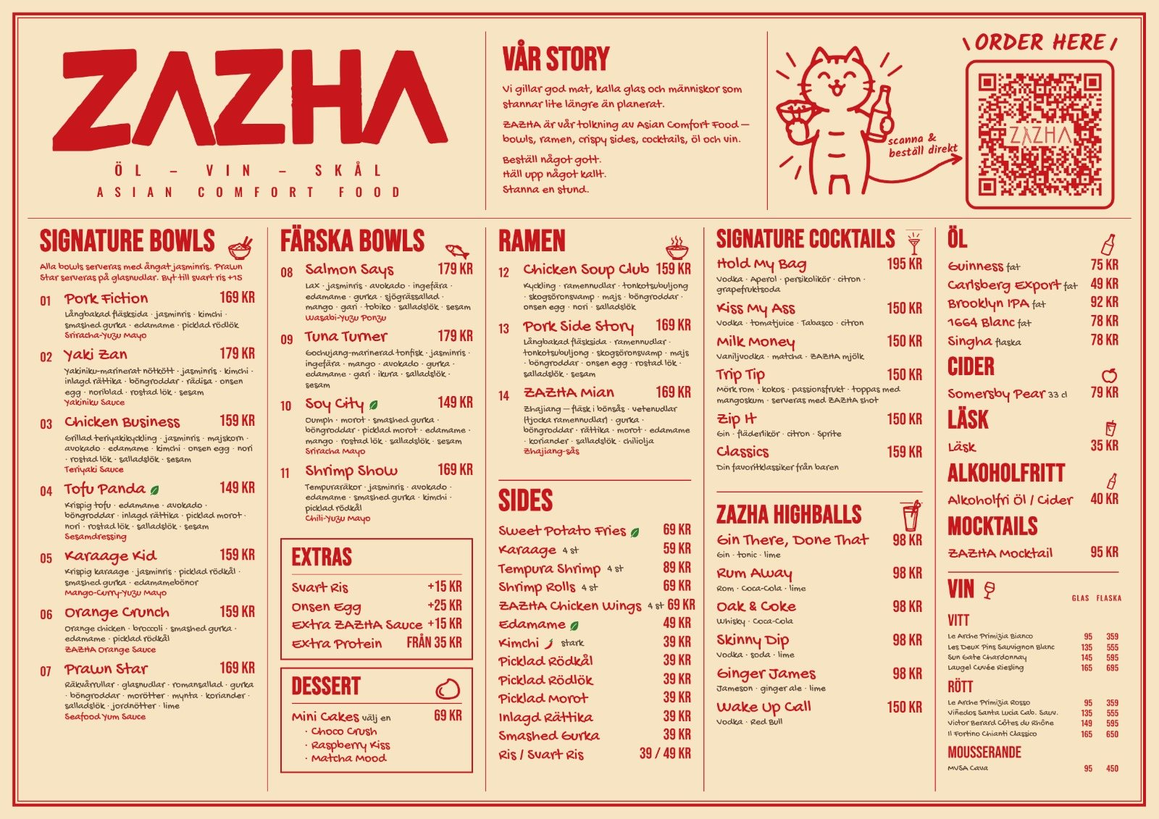
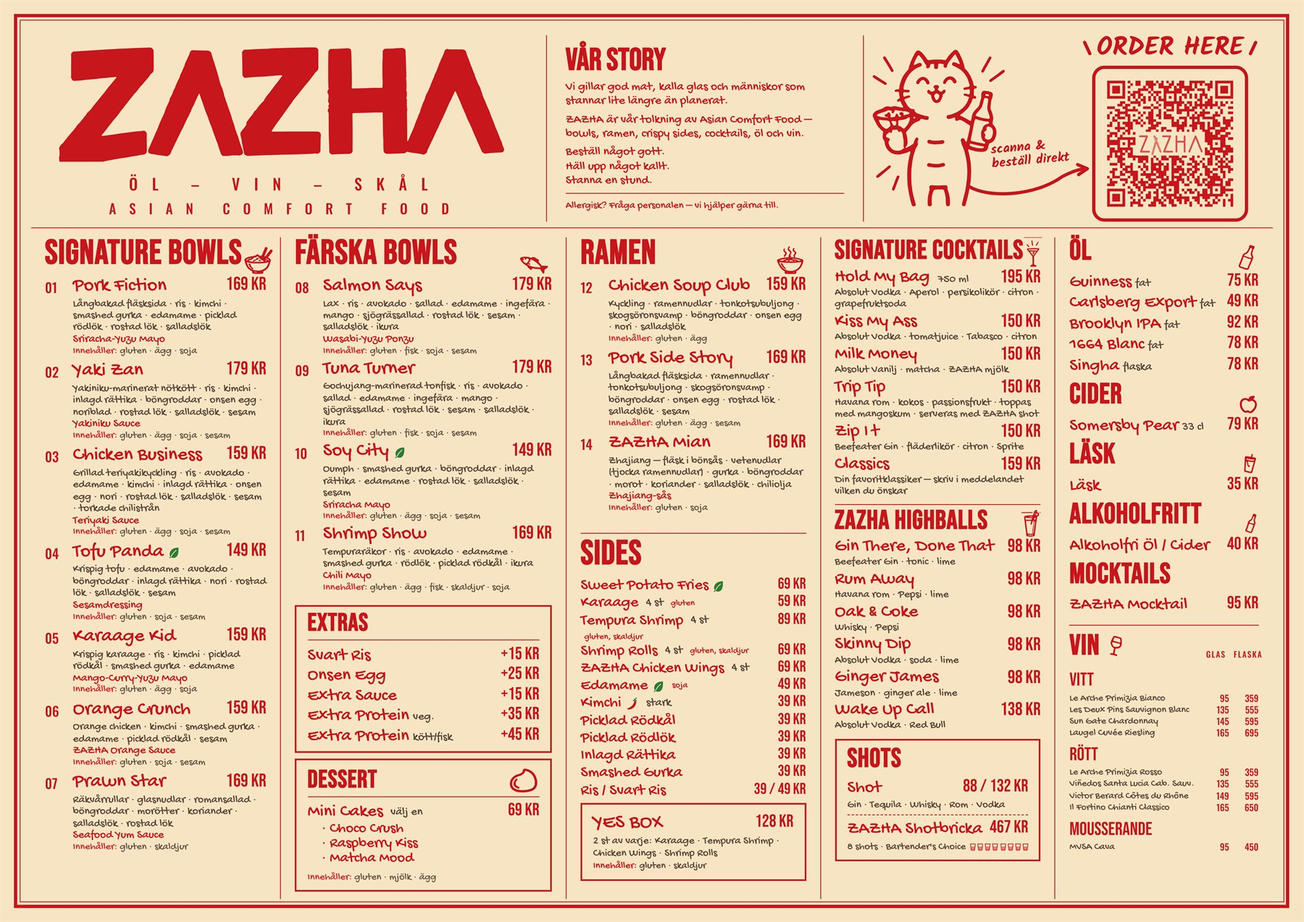
Uppdatera menyn med ny menybild och synka hela meny-sidan mot den
Byter ut menybilden på startsidan och meny-sidan mot det nya
tryckta menykortet, och uppdaterar hela den utskrivna HTML-menyn
(bowls, ramen, sides, dessert, cocktails, highballs, shots, vin)
med rätt ingredienser, allergener och priser så den matchar
menykortet exakt. Lägger till Yes Box och Shots som nya poster.

Changed region(s): [[0.0312, 0.0309, 0.9688, 0.9903]]

diff --git a/meny.html b/meny.html
@@ -31,26 +31,26 @@
         "@type": "MenuSection",
         "name": "Bowls",
         "hasMenuItem": [
-          {"@type":"MenuItem","name":"Pork Fiction","description":"Långbakad fläsksida, jasminris, kimchi, smashed gurka, edamame, picklad rödlök, Sriracha-Yuzu Mayo","offers":{"@type":"Offer","price":"169","priceCurrency":"SEK"}},
-          {"@type":"MenuItem","name":"Yaki Zan","description":"Yakiniku-marinerat nötkött, jasminris, kimchi, inlagd rättika, böngroddar, rädisa, onsenägg, noriblad, rostad lök, sesam","offers":{"@type":"Offer","price":"179","priceCurrency":"SEK"}},
-          {"@type":"MenuItem","name":"Chicken Business","description":"Grillad teriyakikyckling, jasminris, majskorn, avokado, edamame, kimchi, onsenägg, nori, rostad lök, salladslök, sesam","offers":{"@type":"Offer","price":"159","priceCurrency":"SEK"}},
-          {"@type":"MenuItem","name":"Tofu Panda","description":"Krispig tofu, edamame, avokado, böngroddar, inlagd rättika, picklad morot, nori, rostad lök, salladslök, sesam, Sesamdressing","suitableForDiet":"https://schema.org/VegetarianDiet","offers":{"@type":"Offer","price":"149","priceCurrency":"SEK"}},
-          {"@type":"MenuItem","name":"Karaage Kid","description":"Krispig karaage, jasminris, picklad rödkål, smashed gurka, edamamebönor, Mango-Curry-Yuzu Mayo","offers":{"@type":"Offer","price":"159","priceCurrency":"SEK"}},
-          {"@type":"MenuItem","name":"Orange Crunch","description":"Orange chicken, broccoli, smashed gurka, edamame, picklad rödkål, ZAZHA Orange Sauce","offers":{"@type":"Offer","price":"159","priceCurrency":"SEK"}},
-          {"@type":"MenuItem","name":"Prawn Star","description":"Räkvårrullar, glasnudlar, romansallad, gurka, böngroddar, morötter, mynta, koriander, salladslök, jordnötter, lime, Seafood Yum Sauce","offers":{"@type":"Offer","price":"169","priceCurrency":"SEK"}},
-          {"@type":"MenuItem","name":"Salmon Says","description":"Lax, jasminris, avokado, ingefära, edamame, gurka, sjögrässallad, mango, gari, tobiko, salladslök, sesam, Wasabi-Yuzu Ponzu","offers":{"@type":"Offer","price":"179","priceCurrency":"SEK"}},
-          {"@type":"MenuItem","name":"Tuna Turner","description":"Gochujang-marinerad tonfisk, jasminris, ingefära, mango, avokado, gurka, edamame, gari, ikura, salladslök, sesam","offers":{"@type":"Offer","price":"179","priceCurrency":"SEK"}},
-          {"@type":"MenuItem","name":"Soy City","description":"Oumph, morot, smashed gurka, böngroddar, picklad morot, edamame, mango, rostad lök, salladslök, sesam, Sriracha Mayo","suitableForDiet":"https://schema.org/VegetarianDiet","offers":{"@type":"Offer","price":"149","priceCurrency":"SEK"}},
-          {"@type":"MenuItem","name":"Shrimp Show","description":"Tempuraräkor, jasminris, avokado, edamame, smashed gurka, kimchi, picklad rödkål, Chili-Yuzu Mayo","offers":{"@type":"Offer","price":"169","priceCurrency":"SEK"}}
+          {"@type":"MenuItem","name":"Pork Fiction","description":"Långbakad fläsksida, ris, kimchi, smashed gurka, edamame, picklad rödlök, rostad lök, salladslök, Sriracha-Yuzu Mayo","offers":{"@type":"Offer","price":"169","priceCurrency":"SEK"}},
+          {"@type":"MenuItem","name":"Yaki Zan","description":"Yakiniku-marinerat nötkött, ris, kimchi, inlagd rättika, böngroddar, onsen egg, noriblad, rostad lök, salladslök, sesam","offers":{"@type":"Offer","price":"179","priceCurrency":"SEK"}},
+          {"@type":"MenuItem","name":"Chicken Business","description":"Grillad teriyakikyckling, ris, avokado, edamame, kimchi, inlagd rättika, onsen egg, nori, rostad lök, salladslök, sesam, torkade chiliflingor","offers":{"@type":"Offer","price":"159","priceCurrency":"SEK"}},
+          {"@type":"MenuItem","name":"Tofu Panda","description":"Krispig tofu, edamame, avokado, böngroddar, inlagd rättika, nori, rostad lök, salladslök, sesam, Sesamdressing","suitableForDiet":"https://schema.org/VegetarianDiet","offers":{"@type":"Offer","price":"149","priceCurrency":"SEK"}},
+          {"@type":"MenuItem","name":"Karaage Kid","description":"Krispig karaage, ris, kimchi, picklad rödkål, smashed gurka, edamame, Mango-Curry-Yuzu Mayo","offers":{"@type":"Offer","price":"159","priceCurrency":"SEK"}},
+          {"@type":"MenuItem","name":"Orange Crunch","description":"Orange chicken, kimchi, smashed gurka, edamame, picklad rödkål, sesam, ZAZHA Orange Sauce","offers":{"@type":"Offer","price":"159","priceCurrency":"SEK"}},
+          {"@type":"MenuItem","name":"Prawn Star","description":"Räkvårrullar, glasnudlar, romansallad, böngroddar, morötter, koriander, salladslök, rostad lök, Seafood Yum Sauce","offers":{"@type":"Offer","price":"169","priceCurrency":"SEK"}},
+          {"@type":"MenuItem","name":"Salmon Says","description":"Lax, ris, avokado, sallad, edamame, ingefära, mango, sjögrässallad, rostad lök, sesam, salladslök, ikura, Wasabi-Yuzu Ponzu","offers":{"@type":"Offer","price":"179","priceCurrency":"SEK"}},
+          {"@type":"MenuItem","name":"Tuna Turner","description":"Gochujang-marinerad tonfisk, ris, avokado, sallad, edamame, ingefära, mango, sjögrässallad, rostad lök, sesam, salladslök, ikura","offers":{"@type":"Offer","price":"179","priceCurrency":"SEK"}},
+          {"@type":"MenuItem","name":"Soy City","description":"Oumph, smashed gurka, böngroddar, inlagd rättika, edamame, rostad lök, salladslök, sesam, Sriracha Mayo","suitableForDiet":"https://schema.org/VegetarianDiet","offers":{"@type":"Offer","price":"149","priceCurrency":"SEK"}},
+          {"@type":"MenuItem","name":"Shrimp Show","description":"Tempuraräkor, ris, avokado, smashed gurka, rödlök, picklad rödkål, ikura, Chili Mayo","offers":{"@type":"Offer","price":"169","priceCurrency":"SEK"}}
         ]
       },
       {
         "@type": "MenuSection",
         "name": "Ramen",
         "hasMenuItem": [
-          {"@type":"MenuItem","name":"Chicken Soup Club","description":"Kyckling, ramennudlar, tonkotsubuljong, skogsöronsvamp, majs, böngroddar, onsenägg, nori, salladslök","offers":{"@type":"Offer","price":"159","priceCurrency":"SEK"}},
-          {"@type":"MenuItem","name":"Pork Side Story","description":"Långbakad fläsksida, ramennudlar, tonkotsubuljong, skogsöronsvamp, majs, böngroddar, onsenägg, rostad lök, salladslök, sesam","offers":{"@type":"Offer","price":"169","priceCurrency":"SEK"}},
-          {"@type":"MenuItem","name":"Zazha Mian","description":"Zhajiang - fläsk i bönsås, vetenudlar, gurka, böngroddar, rättika, morot, edamame, koriander, salladslök, chiliolja","offers":{"@type":"Offer","price":"169","priceCurrency":"SEK"}}
+          {"@type":"MenuItem","name":"Chicken Soup Club","description":"Kyckling, ramennudlar, tonkotsubuljong, skogsöronsvamp, böngroddar, onsen egg, nori, salladslök","offers":{"@type":"Offer","price":"159","priceCurrency":"SEK"}},
+          {"@type":"MenuItem","name":"Pork Side Story","description":"Långbakad fläsksida, ramennudlar, tonkotsubuljong, skogsöronsvamp, böngroddar, onsen egg, rostad lök","offers":{"@type":"Offer","price":"169","priceCurrency":"SEK"}},
+          {"@type":"MenuItem","name":"ZAZHA Mian","description":"Zhajiang - fläsk i bönsås, vetenudlar, gurka, böngroddar, morot, koriander, salladslök, chiliolja","offers":{"@type":"Offer","price":"169","priceCurrency":"SEK"}}
         ]
       },
       {
@@ -66,43 +66,49 @@
           {"@type":"MenuItem","name":"Kimchi","description":"Stark","offers":{"@type":"Offer","price":"39","priceCurrency":"SEK"}},
           {"@type":"MenuItem","name":"Picklad rödkål","offers":{"@type":"Offer","price":"39","priceCurrency":"SEK"}},
           {"@type":"MenuItem","name":"Picklad rödlök","offers":{"@type":"Offer","price":"39","priceCurrency":"SEK"}},
-          {"@type":"MenuItem","name":"Picklad morot","offers":{"@type":"Offer","price":"39","priceCurrency":"SEK"}},
           {"@type":"MenuItem","name":"Inlagd rättika","offers":{"@type":"Offer","price":"39","priceCurrency":"SEK"}},
           {"@type":"MenuItem","name":"Smashed gurka","offers":{"@type":"Offer","price":"39","priceCurrency":"SEK"}},
-          {"@type":"MenuItem","name":"Ris / Svart ris","offers":{"@type":"Offer","price":"39-49","priceCurrency":"SEK"}}
+          {"@type":"MenuItem","name":"Ris / Svart ris","offers":{"@type":"Offer","price":"39-49","priceCurrency":"SEK"}},
+          {"@type":"MenuItem","name":"Yes Box","description":"2 st av varje: Karaage, Tempura Shrimp, Chicken Wings, Shrimp Rolls","offers":{"@type":"Offer","price":"128","priceCurrency":"SEK"}}
         ]
       },
       {
         "@type": "MenuSection",
         "name": "Dessert",
         "hasMenuItem": [
-          {"@type":"MenuItem","name":"Choco Crush","description":"Mini cake","offers":{"@type":"Offer","price":"69","priceCurrency":"SEK"}},
-          {"@type":"MenuItem","name":"Raspberry Kiss","description":"Mini cake","offers":{"@type":"Offer","price":"69","priceCurrency":"SEK"}},
-          {"@type":"MenuItem","name":"Matcha Mood","description":"Mini cake","offers":{"@type":"Offer","price":"69","priceCurrency":"SEK"}}
+          {"@type":"MenuItem","name":"Mini Cakes","description":"Välj en: Choco Crush, Raspberry Kiss eller Matcha Mood","offers":{"@type":"Offer","price":"69","priceCurrency":"SEK"}}
         ]
       },
       {
         "@type": "MenuSection",
         "name": "Signature Cocktails",
         "hasMenuItem": [
-          {"@type":"MenuItem","name":"Hold My Bag","description":"Vodka, Aperol, persikolikör, citron, grapefruktsoda","offers":{"@type":"Offer","price":"195","priceCurrency":"SEK"}},
-          {"@type":"MenuItem","name":"Kiss My Ass","description":"Vodka, tomatjuice, Tabasco, citron","offers":{"@type":"Offer","price":"150","priceCurrency":"SEK"}},
-          {"@type":"MenuItem","name":"Milk Money","description":"Vaniljvodka, matcha, ZAZHA mjölk","offers":{"@type":"Offer","price":"150","priceCurrency":"SEK"}},
-          {"@type":"MenuItem","name":"Trip Tip","description":"Mörk rom, kokos, passionsfrukt, mangoskum, serveras med ZAZHA shot","offers":{"@type":"Offer","price":"150","priceCurrency":"SEK"}},
-          {"@type":"MenuItem","name":"Zip It","description":"Gin, fläderlikör, citron, Sprite","offers":{"@type":"Offer","price":"150","priceCurrency":"SEK"}},
-          {"@type":"MenuItem","name":"Classics","description":"Din favoritklassiker från baren","offers":{"@type":"Offer","price":"159","priceCurrency":"SEK"}}
+          {"@type":"MenuItem","name":"Hold My Bag","description":"750 ml, Absolut Vodka, Aperol, persikolikör, citron, grapefruktsoda","offers":{"@type":"Offer","price":"195","priceCurrency":"SEK"}},
+          {"@type":"MenuItem","name":"Kiss My Ass","description":"Absolut Vodka, tomatjuice, Tabasco, citron","offers":{"@type":"Offer","price":"150","priceCurrency":"SEK"}},
+          {"@type":"MenuItem","name":"Milk Money","description":"Absolut Vanilj, matcha, ZAZHA mjölk","offers":{"@type":"Offer","price":"150","priceCurrency":"SEK"}},
+          {"@type":"MenuItem","name":"Trip Tip","description":"Havana rom, kokos, passionsfrukt, mangoskum, serveras med ZAZHA shot","offers":{"@type":"Offer","price":"150","priceCurrency":"SEK"}},
+          {"@type":"MenuItem","name":"Zip It","description":"Beefeater Gin, fläderlikör, citron, Sprite","offers":{"@type":"Offer","price":"150","priceCurrency":"SEK"}},
+          {"@type":"MenuItem","name":"Classics","description":"Din favoritklassiker — skriv i meddelandet vilken du önskar","offers":{"@type":"Offer","price":"159","priceCurrency":"SEK"}}
         ]
       },
       {
         "@type": "MenuSection",
         "name": "ZAZHA Highballs",
         "hasMenuItem": [
-          {"@type":"MenuItem","name":"Gin There, Done That","description":"Gin, tonic, lime","offers":{"@type":"Offer","price":"98","priceCurrency":"SEK"}},
-          {"@type":"MenuItem","name":"Rum Away","description":"Rom, Coca-Cola, lime","offers":{"@type":"Offer","price":"98","priceCurrency":"SEK"}},
-          {"@type":"MenuItem","name":"Oak & Coke","description":"Whisky, Coca-Cola","offers":{"@type":"Offer","price":"98","priceCurrency":"SEK"}},
-          {"@type":"MenuItem","name":"Skinny Dip","description":"Vodka, soda, lime","offers":{"@type":"Offer","price":"98","priceCurrency":"SEK"}},
+          {"@type":"MenuItem","name":"Gin There, Done That","description":"Beefeater Gin, tonic, lime","offers":{"@type":"Offer","price":"98","priceCurrency":"SEK"}},
+          {"@type":"MenuItem","name":"Rum Away","description":"Havana rom, Pepsi, lime","offers":{"@type":"Offer","price":"98","priceCurrency":"SEK"}},
+          {"@type":"MenuItem","name":"Oak & Coke","description":"Whisky, Pepsi","offers":{"@type":"Offer","price":"98","priceCurrency":"SEK"}},
+          {"@type":"MenuItem","name":"Skinny Dip","description":"Absolut Vodka, soda, lime","offers":{"@type":"Offer","price":"98","priceCurrency":"SEK"}},
           {"@type":"MenuItem","name":"Ginger James","description":"Jameson, ginger ale, lime","offers":{"@type":"Offer","price":"98","priceCurrency":"SEK"}},
-          {"@type":"MenuItem","name":"Wake Up Call","description":"Vodka, Red Bull","offers":{"@type":"Offer","price":"150","priceCurrency":"SEK"}}
+          {"@type":"MenuItem","name":"Wake Up Call","description":"Absolut Vodka, Red Bull","offers":{"@type":"Offer","price":"138","priceCurrency":"SEK"}}
+        ]
+      },
+      {
+        "@type": "MenuSection",
+        "name": "Shots",
+        "hasMenuItem": [
+          {"@type":"MenuItem","name":"Shot","description":"Gin, Tequila, Whisky, Rom eller Vodka","offers":{"@type":"Offer","price":"88-132","priceCurrency":"SEK"}},
+          {"@type":"MenuItem","name":"ZAZHA Shotbricka","description":"8 shots, Bartender's Choice","offers":{"@type":"Offer","price":"467","priceCurrency":"SEK"}}
         ]
       },
       {
@@ -125,11 +131,20 @@
       },
       {
         "@type": "MenuSection",
+        "name": "Läsk, Alkoholfritt & Mocktails",
+        "hasMenuItem": [
+          {"@type":"MenuItem","name":"Läsk","offers":{"@type":"Offer","price":"35","priceCurrency":"SEK"}},
+          {"@type":"MenuItem","name":"Alkoholfri öl / cider","offers":{"@type":"Offer","price":"40","priceCurrency":"SEK"}},
+          {"@type":"MenuItem","name":"ZAZHA Mocktail","offers":{"@type":"Offer","price":"95","priceCurrency":"SEK"}}
+        ]
+      },
+      {
+        "@type": "MenuSection",
         "name": "Vin",
         "hasMenuItem": [
           {"@type":"MenuItem","name":"Le Arche Primizia Bianco","offers":{"@type":"Offer","price":"95","priceCurrency":"SEK"}},
           {"@type":"MenuItem","name":"Les Deux Pins Sauvignon Blanc","offers":{"@type":"Offer","price":"135","priceCurrency":"SEK"}},
-          {"@type":"MenuItem","name":"Sun Gate Chardonnay","offers":{"@type":"Offer","price":"135","priceCurrency":"SEK"}},
+          {"@type":"MenuItem","name":"Sun Gate Chardonnay","offers":{"@type":"Offer","price":"145","priceCurrency":"SEK"}},
           {"@type":"MenuItem","name":"Laugel Cuvée Riesling","offers":{"@type":"Offer","price":"165","priceCurrency":"SEK"}},
           {"@type":"MenuItem","name":"Le Arche Primizia Rosso","offers":{"@type":"Offer","price":"95","priceCurrency":"SEK"}},
           {"@type":"MenuItem","name":"Viñedos Santa Lucia Cab. Sauvignon","offers":{"@type":"Offer","price":"135","priceCurrency":"SEK"}},
@@ -789,59 +804,64 @@
       <!-- BOWLS -->
       <div class="meny-cat">
         <h3>Bowls</h3>
-        <p class="meny-item-desc" style="margin-bottom:16px;">Alla bowls serveras med ångat jasminris. Prawn Star serveras på glasnudlar. Byt till svart ris +15 kr.</p>
+        <p class="meny-item-desc" style="margin-bottom:16px;">Prawn Star serveras på glasnudlar, övriga bowls på ris. Byt till svart ris +15 kr.</p>
+        <h4>Signature Bowls</h4>
         <ul>
           <li class="meny-item">
             <div class="meny-item-row"><span class="meny-item-name">01 · Pork Fiction</span><span class="meny-item-price">169 kr</span></div>
-            <p class="meny-item-desc">Långbakad fläsksida, jasminris, kimchi, smashed gurka, edamame, picklad rödlök. Sriracha-Yuzu Mayo.</p>
+            <p class="meny-item-desc">Långbakad fläsksida, ris, kimchi, smashed gurka, edamame, picklad rödlök, rostad lök, salladslök. Sriracha-Yuzu Mayo.<br>Innehåller: gluten, ägg, soja.</p>
           </li>
           <li class="meny-item">
             <div class="meny-item-row"><span class="meny-item-name">02 · Yaki Zan</span><span class="meny-item-price">179 kr</span></div>
-            <p class="meny-item-desc">Yakiniku-marinerat nötkött, jasminris, kimchi, inlagd rättika, böngroddar, rädisa, onsenägg, noriblad, rostad lök, sesam. Yakiniku Sauce.</p>
+            <p class="meny-item-desc">Yakiniku-marinerat nötkött, ris, kimchi, inlagd rättika, böngroddar, onsen egg, noriblad, rostad lök, salladslök, sesam. Yakiniku Sauce.<br>Innehåller: gluten, ägg, soja, sesam.</p>
           </li>
           <li class="meny-item">
             <div class="meny-item-row"><span class="meny-item-name">03 · Chicken Business</span><span class="meny-item-price">159 kr</span></div>
-            <p class="meny-item-desc">Grillad teriyakikyckling, jasminris, majskorn, avokado, edamame, kimchi, onsenägg, nori, rostad lök, salladslök, sesam. Teriyaki Sauce.</p>
+            <p class="meny-item-desc">Grillad teriyakikyckling, ris, avokado, edamame, kimchi, inlagd rättika, onsen egg, nori, rostad lök, salladslök, sesam, torkade chiliflingor. Teriyaki Sauce.<br>Innehåller: gluten, ägg, soja, sesam.</p>
           </li>
           <li class="meny-item">
             <div class="meny-item-row"><span class="meny-item-name">04 · Tofu Panda 🌱</span><span class="meny-item-price">149 kr</span></div>
-            <p class="meny-item-desc">Krispig tofu, edamame, avokado, böngroddar, inlagd rättika, picklad morot, nori, rostad lök, salladslök, sesam. Sesamdressing.</p>
+            <p class="meny-item-desc">Krispig tofu, edamame, avokado, böngroddar, inlagd rättika, nori, rostad lök, salladslök, sesam. Sesamdressing.<br>Innehåller: gluten, soja, sesam.</p>
           </li>
           <li class="meny-item">
             <div class="meny-item-row"><span class="meny-item-name">05 · Karaage Kid</span><span class="meny-item-price">159 kr</span></div>
-            <p class="meny-item-desc">Krispig karaage, jasminris, picklad rödkål, smashed gurka, edamamebönor. Mango-Curry-Yuzu Mayo.</p>
+            <p class="meny-item-desc">Krispig karaage, ris, kimchi, picklad rödkål, smashed gurka, edamame. Mango-Curry-Yuzu Mayo.<br>Innehåller: gluten, ägg, soja.</p>
           </li>
           <li class="meny-item">
             <div class="meny-item-row"><span class="meny-item-name">06 · Orange Crunch</span><span class="meny-item-price">159 kr</span></div>
-            <p class="meny-item-desc">Orange chicken, broccoli, smashed gurka, edamame, picklad rödkål. ZAZHA Orange Sauce.</p>
+            <p class="meny-item-desc">Orange chicken, kimchi, smashed gurka, edamame, picklad rödkål, sesam. ZAZHA Orange Sauce.<br>Innehåller: gluten, soja, sesam.</p>
           </li>
           <li class="meny-item">
             <div class="meny-item-row"><span class="meny-item-name">07 · Prawn Star</span><span class="meny-item-price">169 kr</span></div>
-            <p class="meny-item-desc">Räkvårrullar, glasnudlar, romansallad, gurka, böngroddar, morötter, mynta, koriander, salladslök, jordnötter, lime. Seafood Yum Sauce.</p>
+            <p class="meny-item-desc">Räkvårrullar, glasnudlar, romansallad, böngroddar, morötter, koriander, salladslök, rostad lök. Seafood Yum Sauce.<br>Innehåller: gluten, skaldjur.</p>
           </li>
+        </ul>
+        <h4>Färska Bowls</h4>
+        <ul>
           <li class="meny-item">
             <div class="meny-item-row"><span class="meny-item-name">08 · Salmon Says</span><span class="meny-item-price">179 kr</span></div>
-            <p class="meny-item-desc">Lax, jasminris, avokado, ingefära, edamame, gurka, sjögrässallad, mango, gari, tobiko, salladslök, sesam. Wasabi-Yuzu Ponzu.</p>
+            <p class="meny-item-desc">Lax, ris, avokado, sallad, edamame, ingefära, mango, sjögrässallad, rostad lök, sesam, salladslök, ikura. Wasabi-Yuzu Ponzu.<br>Innehåller: gluten, fisk, soja, sesam.</p>
           </li>
           <li class="meny-item">
             <div class="meny-item-row"><span class="meny-item-name">09 · Tuna Turner</span><span class="meny-item-price">179 kr</span></div>
-            <p class="meny-item-desc">Gochujang-marinerad tonfisk, jasminris, ingefära, mango, avokado, gurka, edamame, gari, ikura, salladslök, sesam.</p>
+            <p class="meny-item-desc">Gochujang-marinerad tonfisk, ris, avokado, sallad, edamame, ingefära, mango, sjögrässallad, rostad lök, sesam, salladslök, ikura.<br>Innehåller: gluten, fisk, soja, sesam.</p>
           </li>
           <li class="meny-item">
             <div class="meny-item-row"><span class="meny-item-name">10 · Soy City 🌱</span><span class="meny-item-price">149 kr</span></div>
-            <p class="meny-item-desc">Oumph, morot, smashed gurka, böngroddar, picklad morot, edamame, mango, rostad lök, salladslök, sesam. Sriracha Mayo.</p>
+            <p class="meny-item-desc">Oumph, smashed gurka, böngroddar, inlagd rättika, edamame, rostad lök, salladslök, sesam. Sriracha Mayo.<br>Innehåller: gluten, ägg, soja, sesam.</p>
           </li>
           <li class="meny-item">
             <div class="meny-item-row"><span class="meny-item-name">11 · Shrimp Show</span><span class="meny-item-price">169 kr</span></div>
-            <p class="meny-item-desc">Tempuraräkor, jasminris, avokado, edamame, smashed gurka, kimchi, picklad rödkål. Chili-Yuzu Mayo.</p>
+            <p class="meny-item-desc">Tempuraräkor, ris, avokado, smashed gurka, rödlök, picklad rödkål, ikura. Chili Mayo.<br>Innehåller: gluten, ägg, fisk, skaldjur, soja.</p>
           </li>
         </ul>
         <h4>Extras</h4>
         <ul>
-          <li class="meny-item"><div class="meny-item-row"><span class="meny-item-name">Svart ris</span><span class="meny-item-price">+15 kr</span></div></li>
+          <li class="meny-item"><div class="meny-item-row"><span class="meny-item-name">Svart Ris</span><span class="meny-item-price">+15 kr</span></div></li>
           <li class="meny-item"><div class="meny-item-row"><span class="meny-item-name">Onsen Egg</span><span class="meny-item-price">+25 kr</span></div></li>
-          <li class="meny-item"><div class="meny-item-row"><span class="meny-item-name">Extra ZAZHA Sauce</span><span class="meny-item-price">+15 kr</span></div></li>
-          <li class="meny-item"><div class="meny-item-row"><span class="meny-item-name">Extra protein</span><span class="meny-item-price">från 35 kr</span></div></li>
+          <li class="meny-item"><div class="meny-item-row"><span class="meny-item-name">Extra Sauce</span><span class="meny-item-price">+15 kr</span></div></li>
+          <li class="meny-item"><div class="meny-item-row"><span class="meny-item-name">Extra Protein veg.</span><span class="meny-item-price">+35 kr</span></div></li>
+          <li class="meny-item"><div class="meny-item-row"><span class="meny-item-name">Extra Protein kött/fisk</span><span class="meny-item-price">+45 kr</span></div></li>
         </ul>
       </div>
 
@@ -851,15 +871,15 @@
         <ul>
           <li class="meny-item">
             <div class="meny-item-row"><span class="meny-item-name">12 · Chicken Soup Club</span><span class="meny-item-price">159 kr</span></div>
-            <p class="meny-item-desc">Kyckling, ramennudlar, tonkotsubuljong, skogsöronsvamp, majs, böngroddar, onsenägg, nori, salladslök.</p>
+            <p class="meny-item-desc">Kyckling, ramennudlar, tonkotsubuljong, skogsöronsvamp, böngroddar, onsen egg, nori, salladslök.<br>Innehåller: gluten, ägg.</p>
           </li>
           <li class="meny-item">
             <div class="meny-item-row"><span class="meny-item-name">13 · Pork Side Story</span><span class="meny-item-price">169 kr</span></div>
-            <p class="meny-item-desc">Långbakad fläsksida, ramennudlar, tonkotsubuljong, skogsöronsvamp, majs, böngroddar, onsenägg, rostad lök, salladslök, sesam.</p>
+            <p class="meny-item-desc">Långbakad fläsksida, ramennudlar, tonkotsubuljong, skogsöronsvamp, böngroddar, onsen egg, rostad lök.<br>Innehåller: gluten, ägg, sesam.</p>
           </li>
           <li class="meny-item">
-            <div class="meny-item-row"><span class="meny-item-name">14 · Zazha Mian</span><span class="meny-item-price">169 kr</span></div>
-            <p class="meny-item-desc">Zhajiang – fläsk i bönsås, vetenudlar (tjocka ramennudlar), gurka, böngroddar, rättika, morot, edamame, koriander, salladslök, chiliolja. Zhajiang-sås.</p>
+            <div class="meny-item-row"><span class="meny-item-name">14 · ZAZHA Mian</span><span class="meny-item-price">169 kr</span></div>
+            <p class="meny-item-desc">Zhajiang – fläsk i bönsås, vetenudlar (tjocka ramennudlar), gurka, böngroddar, morot, koriander, salladslök, chiliolja. Zhajiang-sås.<br>Innehåller: gluten, soja.</p>
           </li>
         </ul>
       </div>
@@ -869,29 +889,35 @@
         <h3>Sides</h3>
         <ul>
           <li class="meny-item"><div class="meny-item-row"><span class="meny-item-name">Sweet Potato Fries 🌱</span><span class="meny-item-price">69 kr</span></div></li>
-          <li class="meny-item"><div class="meny-item-row"><span class="meny-item-name">Karaage, 4 st</span><span class="meny-item-price">59 kr</span></div></li>
-          <li class="meny-item"><div class="meny-item-row"><span class="meny-item-name">Tempura Shrimp, 4 st</span><span class="meny-item-price">89 kr</span></div></li>
-          <li class="meny-item"><div class="meny-item-row"><span class="meny-item-name">Shrimp Rolls, 4 st</span><span class="meny-item-price">69 kr</span></div></li>
-          <li class="meny-item"><div class="meny-item-row"><span class="meny-item-name">Zazha Chicken Wings, 4 st</span><span class="meny-item-price">69 kr</span></div></li>
-          <li class="meny-item"><div class="meny-item-row"><span class="meny-item-name">Edamame 🌱</span><span class="meny-item-price">49 kr</span></div></li>
+          <li class="meny-item"><div class="meny-item-row"><span class="meny-item-name">Karaage, 4 st</span><span class="meny-item-price">59 kr</span></div><p class="meny-item-desc">Innehåller: gluten.</p></li>
+          <li class="meny-item"><div class="meny-item-row"><span class="meny-item-name">Tempura Shrimp, 4 st</span><span class="meny-item-price">89 kr</span></div><p class="meny-item-desc">Innehåller: gluten, skaldjur.</p></li>
+          <li class="meny-item"><div class="meny-item-row"><span class="meny-item-name">Shrimp Rolls, 4 st</span><span class="meny-item-price">69 kr</span></div><p class="meny-item-desc">Innehåller: gluten, skaldjur.</p></li>
+          <li class="meny-item"><div class="meny-item-row"><span class="meny-item-name">ZAZHA Chicken Wings, 4 st</span><span class="meny-item-price">69 kr</span></div></li>
+          <li class="meny-item"><div class="meny-item-row"><span class="meny-item-name">Edamame 🌱</span><span class="meny-item-price">49 kr</span></div><p class="meny-item-desc">Innehåller: soja.</p></li>
           <li class="meny-item"><div class="meny-item-row"><span class="meny-item-name">Kimchi 🌶 stark</span><span class="meny-item-price">39 kr</span></div></li>
           <li class="meny-item"><div class="meny-item-row"><span class="meny-item-name">Picklad rödkål</span><span class="meny-item-price">39 kr</span></div></li>
           <li class="meny-item"><div class="meny-item-row"><span class="meny-item-name">Picklad rödlök</span><span class="meny-item-price">39 kr</span></div></li>
-          <li class="meny-item"><div class="meny-item-row"><span class="meny-item-name">Picklad morot</span><span class="meny-item-price">39 kr</span></div></li>
           <li class="meny-item"><div class="meny-item-row"><span class="meny-item-name">Inlagd rättika</span><span class="meny-item-price">39 kr</span></div></li>
           <li class="meny-item"><div class="meny-item-row"><span class="meny-item-name">Smashed gurka</span><span class="meny-item-price">39 kr</span></div></li>
           <li class="meny-item"><div class="meny-item-row"><span class="meny-item-name">Ris / Svart ris</span><span class="meny-item-price">39 / 49 kr</span></div></li>
+        </ul>
+        <h4>Yes Box</h4>
+        <ul>
+          <li class="meny-item">
+            <div class="meny-item-row"><span class="meny-item-name">Yes Box</span><span class="meny-item-price">128 kr</span></div>
+            <p class="meny-item-desc">2 st av varje: Karaage, Tempura Shrimp, Chicken Wings, Shrimp Rolls.<br>Innehåller: gluten, skaldjur.</p>
+          </li>
         </ul>
       </div>
 
       <!-- DESSERT -->
       <div class="meny-cat">
         <h3>Dessert</h3>
-        <p class="meny-item-desc" style="margin-bottom:16px;">Mini cakes — välj en.</p>
         <ul>
-          <li class="meny-item"><div class="meny-item-row"><span class="meny-item-name">Choco Crush</span><span class="meny-item-price">69 kr</span></div></li>
-          <li class="meny-item"><div class="meny-item-row"><span class="meny-item-name">Raspberry Kiss</span><span class="meny-item-price">69 kr</span></div></li>
-          <li class="meny-item"><div class="meny-item-row"><span class="meny-item-name">Matcha Mood</span><span class="meny-item-price">69 kr</span></div></li>
+          <li class="meny-item">
+            <div class="meny-item-row"><span class="meny-item-name">Mini Cakes, välj en</span><span class="meny-item-price">69 kr</span></div>
+            <p class="meny-item-desc">Choco Crush · Raspberry Kiss · Matcha Mood.<br>Innehåller: gluten, mjölk, ägg.</p>
+          </li>
         </ul>
       </div>
 
@@ -936,23 +962,28 @@
       <!-- COCKTAILS -->
       <div class="meny-cat">
         <h3>Cocktails</h3>
-        <h4>Signature — Asian Twist</h4>
+        <h4>Signature Cocktails</h4>
         <ul>
-          <li class="meny-item"><div class="meny-item-row"><span class="meny-item-name">Hold My Bag</span><span class="meny-item-price">195 kr</span></div><p class="meny-item-desc">Vodka, Aperol, persikolikör, citron, grapefruktsoda.</p></li>
-          <li class="meny-item"><div class="meny-item-row"><span class="meny-item-name">Kiss My Ass</span><span class="meny-item-price">150 kr</span></div><p class="meny-item-desc">Vodka, tomatjuice, Tabasco, citron.</p></li>
-          <li class="meny-item"><div class="meny-item-row"><span class="meny-item-name">Milk Money</span><span class="meny-item-price">150 kr</span></div><p class="meny-item-desc">Vaniljvodka, matcha, ZAZHA mjölk.</p></li>
-          <li class="meny-item"><div class="meny-item-row"><span class="meny-item-name">Trip Tip</span><span class="meny-item-price">150 kr</span></div><p class="meny-item-desc">Mörk rom, kokos, passionsfrukt, toppas med mangoskum, serveras med ZAZHA shot.</p></li>
-          <li class="meny-item"><div class="meny-item-row"><span class="meny-item-name">Zip It</span><span class="meny-item-price">150 kr</span></div><p class="meny-item-desc">Gin, fläderlikör, citron, Sprite.</p></li>
-          <li class="meny-item"><div class="meny-item-row"><span class="meny-item-name">Classics</span><span class="meny-item-price">159 kr</span></div><p class="meny-item-desc">Din favoritklassiker från baren.</p></li>
+          <li class="meny-item"><div class="meny-item-row"><span class="meny-item-name">Hold My Bag, 750 ml</span><span class="meny-item-price">195 kr</span></div><p class="meny-item-desc">Absolut Vodka, Aperol, persikolikör, citron, grapefruktsoda.</p></li>
+          <li class="meny-item"><div class="meny-item-row"><span class="meny-item-name">Kiss My Ass</span><span class="meny-item-price">150 kr</span></div><p class="meny-item-desc">Absolut Vodka, tomatjuice, Tabasco, citron.</p></li>
+          <li class="meny-item"><div class="meny-item-row"><span class="meny-item-name">Milk Money</span><span class="meny-item-price">150 kr</span></div><p class="meny-item-desc">Absolut Vanilj, matcha, ZAZHA mjölk.</p></li>
+          <li class="meny-item"><div class="meny-item-row"><span class="meny-item-name">Trip Tip</span><span class="meny-item-price">150 kr</span></div><p class="meny-item-desc">Havana rom, kokos, passionsfrukt, toppas med mangoskum, serveras med ZAZHA shot.</p></li>
+          <li class="meny-item"><div class="meny-item-row"><span class="meny-item-name">Zip It</span><span class="meny-item-price">150 kr</span></div><p class="meny-item-desc">Beefeater Gin, fläderlikör, citron, Sprite.</p></li>
+          <li class="meny-item"><div class="meny-item-row"><span class="meny-item-name">Classics</span><span class="meny-item-price">159 kr</span></div><p class="meny-item-desc">Din favoritklassiker — skriv i meddelandet vilken du önskar.</p></li>
         </ul>
-        <h4>ZAZHA Highballs — Classics, ZAZHA Style</h4>
+        <h4>ZAZHA Highballs</h4>
         <ul>
-          <li class="meny-item"><div class="meny-item-row"><span class="meny-item-name">Gin There, Done That</span><span class="meny-item-price">98 kr</span></div><p class="meny-item-desc">Gin, tonic, lime.</p></li>
-          <li class="meny-item"><div class="meny-item-row"><span class="meny-item-name">Rum Away</span><span class="meny-item-price">98 kr</span></div><p class="meny-item-desc">Rom, Coca-Cola, lime.</p></li>
-          <li class="meny-item"><div class="meny-item-row"><span class="meny-item-name">Oak &amp; Coke</span><span class="meny-item-price">98 kr</span></div><p class="meny-item-desc">Whisky, Coca-Cola.</p></li>
-          <li class="meny-item"><div class="meny-item-row"><span class="meny-item-name">Skinny Dip</span><span class="meny-item-price">98 kr</span></div><p class="meny-item-desc">Vodka, soda, lime.</p></li>
+          <li class="meny-item"><div class="meny-item-row"><span class="meny-item-name">Gin There, Done That</span><span class="meny-item-price">98 kr</span></div><p class="meny-item-desc">Beefeater Gin, tonic, lime.</p></li>
+          <li class="meny-item"><div class="meny-item-row"><span class="meny-item-name">Rum Away</span><span class="meny-item-price">98 kr</span></div><p class="meny-item-desc">Havana rom, Pepsi, lime.</p></li>
+          <li class="meny-item"><div class="meny-item-row"><span class="meny-item-name">Oak &amp; Coke</span><span class="meny-item-price">98 kr</span></div><p class="meny-item-desc">Whisky, Pepsi.</p></li>
+          <li class="meny-item"><div class="meny-item-row"><span class="meny-item-name">Skinny Dip</span><span class="meny-item-price">98 kr</span></div><p class="meny-item-desc">Absolut Vodka, soda, lime.</p></li>
           <li class="meny-item"><div class="meny-item-row"><span class="meny-item-name">Ginger James</span><span class="meny-item-price">98 kr</span></div><p class="meny-item-desc">Jameson, ginger ale, lime.</p></li>
-          <li class="meny-item"><div class="meny-item-row"><span class="meny-item-name">Wake Up Call</span><span class="meny-item-price">150 kr</span></div><p class="meny-item-desc">Vodka, Red Bull.</p></li>
+          <li class="meny-item"><div class="meny-item-row"><span class="meny-item-name">Wake Up Call</span><span class="meny-item-price">138 kr</span></div><p class="meny-item-desc">Absolut Vodka, Red Bull.</p></li>
+        </ul>
+        <h4>Shots</h4>
+        <ul>
+          <li class="meny-item"><div class="meny-item-row"><span class="meny-item-name">Shot</span><span class="meny-item-price">88 / 132 kr</span></div><p class="meny-item-desc">Gin, Tequila, Whisky, Rom, Vodka.</p></li>
+          <li class="meny-item"><div class="meny-item-row"><span class="meny-item-name">ZAZHA Shotbricka</span><span class="meny-item-price">467 kr</span></div><p class="meny-item-desc">8 shots · Bartender's Choice 🎲</p></li>
         </ul>
       </div>
 
@@ -975,14 +1006,14 @@
         <ul>
           <li class="meny-item"><div class="meny-item-row"><span class="meny-item-name">Le Arche Primizia Bianco</span><span class="meny-item-price">95 / 359 kr</span></div></li>
           <li class="meny-item"><div class="meny-item-row"><span class="meny-item-name">Les Deux Pins Sauvignon Blanc</span><span class="meny-item-price">135 / 555 kr</span></div></li>
-          <li class="meny-item"><div class="meny-item-row"><span class="meny-item-name">Sun Gate Chardonnay</span><span class="meny-item-price">135 / 595 kr</span></div></li>
+          <li class="meny-item"><div class="meny-item-row"><span class="meny-item-name">Sun Gate Chardonnay</span><span class="meny-item-price">145 / 595 kr</span></div></li>
           <li class="meny-item"><div class="meny-item-row"><span class="meny-item-name">Laugel Cuvée Riesling</span><span class="meny-item-price">165 / 695 kr</span></div></li>
         </ul>
         <h4>Rött — glas / flaska</h4>
         <ul>
           <li class="meny-item"><div class="meny-item-row"><span class="meny-item-name">Le Arche Primizia Rosso</span><span class="meny-item-price">95 / 359 kr</span></div></li>
           <li class="meny-item"><div class="meny-item-row"><span class="meny-item-name">Viñedos Santa Lucia Cab. Sauvignon</span><span class="meny-item-price">135 / 555 kr</span></div></li>
-          <li class="meny-item"><div class="meny-item-row"><span class="meny-item-name">Victor Berard Côtes du Rhône</span><span class="meny-item-price">149 / 650 kr</span></div></li>
+          <li class="meny-item"><div class="meny-item-row"><span class="meny-item-name">Victor Berard Côtes du Rhône</span><span class="meny-item-price">149 / 595 kr</span></div></li>
           <li class="meny-item"><div class="meny-item-row"><span class="meny-item-name">Il Fortino Chianti Classico</span><span class="meny-item-price">165 / 650 kr</span></div></li>
         </ul>
         <h4>Mousserande — glas / flaska</h4>
@@ -991,17 +1022,23 @@
         </ul>
       </div>
 
-      <!-- CIDER -->
+      <!-- CIDER / LÄSK / ALKOHOLFRITT / MOCKTAILS -->
       <div class="meny-cat">
-        <h3>Cider</h3>
+        <h3>Cider &amp; Alkoholfritt</h3>
         <ul>
           <li class="meny-item"><div class="meny-item-row"><span class="meny-item-name">Somersby Pear 33 cl</span><span class="meny-item-price">79 kr</span></div></li>
         </ul>
-        <h4>Övrigt</h4>
+        <h4>Läsk</h4>
         <ul>
-          <li class="meny-item"><div class="meny-item-row"><span class="meny-item-name">Läsk / Vatten</span><span class="meny-item-price">35 kr</span></div></li>
+          <li class="meny-item"><div class="meny-item-row"><span class="meny-item-name">Läsk</span><span class="meny-item-price">35 kr</span></div></li>
+        </ul>
+        <h4>Alkoholfritt</h4>
+        <ul>
           <li class="meny-item"><div class="meny-item-row"><span class="meny-item-name">Alkoholfri öl / cider</span><span class="meny-item-price">40 kr</span></div></li>
-          <li class="meny-item"><div class="meny-item-row"><span class="meny-item-name">ZAZHA Mocktail 🌱</span><span class="meny-item-price">95 kr</span></div></li>
+        </ul>
+        <h4>Mocktails</h4>
+        <ul>
+          <li class="meny-item"><div class="meny-item-row"><span class="meny-item-name">ZAZHA Mocktail</span><span class="meny-item-price">95 kr</span></div></li>
         </ul>
       </div>
 
@@ -1080,7 +1117,7 @@
 
   <div id="meny-lightbox" class="meny-lightbox" role="dialog" aria-modal="true" aria-label="ZAZHA meny" hidden>
     <button type="button" class="meny-lightbox-close" id="meny-lightbox-close" aria-label="Stäng">✕</button>
-    <img id="meny-lightbox-img" data-src="images/zazha-meny.webp" data-fallback="images/zazha-meny.jpg" alt="ZAZHA meny — bowls, ramen, sides, cocktails, öl, vin och cider" width="1600" height="1131">
+    <img id="meny-lightbox-img" data-src="images/zazha-meny.webp" data-fallback="images/zazha-meny.jpg" alt="ZAZHA meny — bowls, ramen, sides, cocktails, öl, vin och cider" width="1800" height="1273">
   </div>
 
   <script>

diff --git a/index.html b/index.html
@@ -1545,7 +1545,7 @@
     <button type="button" class="meny-preview-frame" id="meny-preview-open" aria-label="Förstora menyn">
       <picture>
         <source srcset="images/zazha-meny.webp" type="image/webp">
-        <img src="images/zazha-meny.jpg" alt="ZAZHA meny — bowls, ramen, sides, cocktails, öl, vin och cider" width="1600" height="1131" loading="lazy" decoding="async">
+        <img src="images/zazha-meny.jpg" alt="ZAZHA meny — bowls, ramen, sides, cocktails, öl, vin och cider" width="1800" height="1273" loading="lazy" decoding="async">
       </picture>
     </button>
     <a href="meny.html" class="meny-preview-link">Till hela menyn →</a>
@@ -1558,7 +1558,7 @@
 
   <div id="meny-lightbox" class="meny-lightbox" role="dialog" aria-modal="true" aria-label="ZAZHA meny" hidden>
     <button type="button" class="meny-lightbox-close" id="meny-lightbox-close" aria-label="Stäng">✕</button>
-    <img id="meny-lightbox-img" data-src="images/zazha-meny.webp" data-fallback="images/zazha-meny.jpg" alt="ZAZHA meny — bowls, ramen, sides, cocktails, öl, vin och cider" width="1600" height="1131">
+    <img id="meny-lightbox-img" data-src="images/zazha-meny.webp" data-fallback="images/zazha-meny.jpg" alt="ZAZHA meny — bowls, ramen, sides, cocktails, öl, vin och cider" width="1800" height="1273">
   </div>
 
   <!-- ============================================================
